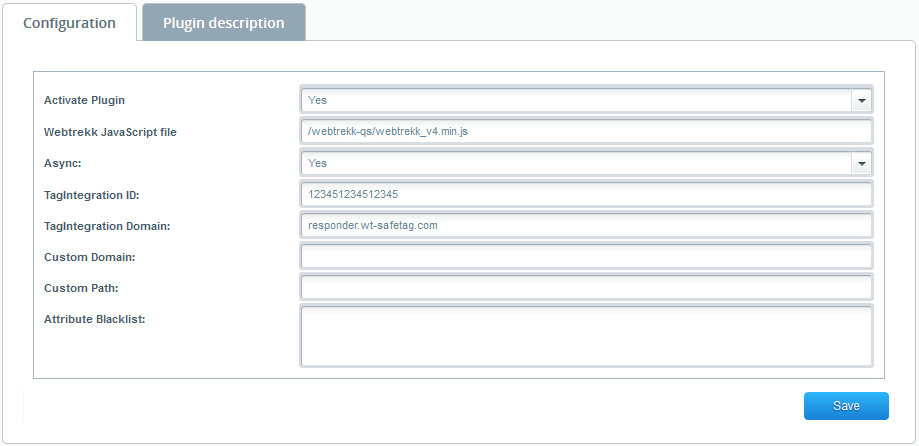
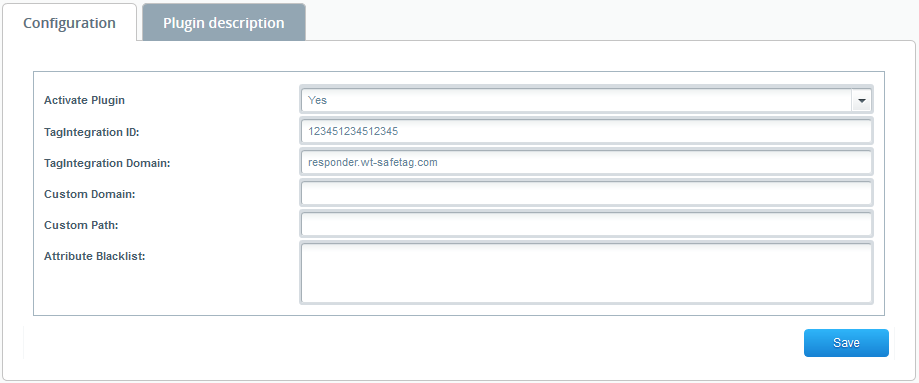
Update to use webtrekk tracking pixel v5

diff --git a/Frontend/BlmediaWebtrekk/Bootstrap.php b/Frontend/BlmediaWebtrekk/Bootstrap.php
@@ -98,7 +98,7 @@ class Shopware_Plugins_Frontend_BlmediaWebtrekk_Bootstrap extends Shopware_Compo
      */
     public function getVersion()
     {
-        return "1.0.2";
+        return "1.0.3";
     }
 
     /**
@@ -136,23 +136,6 @@ class Shopware_Plugins_Frontend_BlmediaWebtrekk_Bootstrap extends Shopware_Compo
         $form->setElement('boolean', 'activatePlugin',
             array(
                 'label' => 'Activate Plugin',
-                'value' => 1,
-                'scope' => \Shopware\Models\Config\Element::SCOPE_SHOP
-            )
-        );
-
-        $form->setElement('text', 'pathToWebtrekkJsFile',
-            array(
-                'label' => 'Webtrekk JavaScript file:',
-                'value' => '',
-                'description' => '',
-                'scope' => \Shopware\Models\Config\Element::SCOPE_SHOP
-            )
-        );
-
-        $form->setElement('boolean', 'wt_async',
-            array(
-                'label' => 'Async',
                 'value' => 1,
                 'scope' => \Shopware\Models\Config\Element::SCOPE_SHOP
             )
@@ -319,17 +302,11 @@ class Shopware_Plugins_Frontend_BlmediaWebtrekk_Bootstrap extends Shopware_Compo
         // Basic Konfiguration
         ///////////////////////////////////////////////////////////////
 
-        // Trackid + TrackDomain
-        $this->View()->assign('blPathToWebtrekkJsFile', $config->pathToWebtrekkJsFile);
-
-        // Async
-        $this->addWebtrekkConfigKeyValuePair('async', $this->_string2bool($config->wt_async));
-
         // Safetag ID
-        $this->addWebtrekkConfigKeyValuePair('safetagId', $config->wt_safetagId);
+        $this->addWebtrekkConfigKeyValuePair('tiId', $config->wt_safetagId);
 
         // Safetag Path
-        $this->addWebtrekkConfigKeyValuePair('safetagDomain', $config->wt_safetagDomain);
+        $this->addWebtrekkConfigKeyValuePair('tiDomain', $config->wt_safetagDomain);
 
         // Custom ID
         $this->addWebtrekkConfigKeyValuePair('customDomain', $config->wt_customDomain);
@@ -372,9 +349,7 @@ class Shopware_Plugins_Frontend_BlmediaWebtrekk_Bootstrap extends Shopware_Compo
         $this->setDatalayerKeyValuePair('pageType', $this->getPageType());
 
         // Webtrekk Config Arrays
-        $webtrekk_global_config = array(
-            "safetag" => $this->getWebtrekkConfigArray()
-        );
+        $webtrekk_global_config = $this->getWebtrekkConfigArray();
         $this->View()->assign('blWebtrekkConfig', $webtrekk_global_config);
 
         // Webtrekk Datalayer

diff --git a/doc/Webtrekk_EN_Config_Shopware.md b/doc/Webtrekk_EN_Config_Shopware.md
@@ -3,7 +3,7 @@ Integration and Configuration of the Webtrekk Shopware Plugin | Version $version
 # Introduction
 
 The Webtrekk Shopware plugin enables you to integrate the Webtrekk pixel into your Shopware online shop simply and 
-quickly. In the process, the Webtrekk pixel code (Version 4) will be added to each page of your shop. This, in turn, 
+quickly. In the process, the Webtrekk pixel code (Version 5) will be added to each page of your shop. This, in turn, 
 ensures all standard parameters are configured.
 
 The following analyses will then be possible:
@@ -15,7 +15,7 @@ The following analyses will then be possible:
 - Action analyses
 - Form analyses
 
-The plugin was developed for Shopware 5.0 - 5.2.1 in combination with the Webtrekk pixel version 4. (i.e. you will need 
+The plugin was developed for Shopware 5.0 - 5.2.1 in combination with the Webtrekk pixel version 5. (i.e. you will need 
 the corresponding pixel JS file and Webtrekk TagIntegration account in addition to the Shopware plugin).
 
 This document provides an overview of the values set on the individual pages and explains the integration of the 
@@ -48,8 +48,6 @@ A form for the basic configuration should appear, after installing the plugin.
 ![Alt Configuration](img/configuration.png)
 
 - **Activate Plugin:** Here you can activate and deactivate the webtrekk plugin.
-- **Webtrekk JavaScript file:** The URL to the JavaScript which contains the tracking code (/webtrekk_v4.min.js).
-- **Async:** Defines whether the TagIntegration container should be loaded asynchronously.
 - **TagIntegration ID:** Enter your TagIntegration customer ID here, if the TagIntegration file should be loaded from a Webtrekk server.
 - **TagIntegration Domain:** Enter the TagIntegration domain here, if the TagIntegration file should be loaded from a Webtrekk server.
 - **Custom Domain:** Enter your domain here, if the TagIntegration file should be loaded from your server.

diff --git a/doc/Webtrekk_DE_Config_Shopware.md b/doc/Webtrekk_DE_Config_Shopware.md
@@ -3,7 +3,7 @@ Integration und Konfiguration des Webtrekk Shopware Plugin | Version $version$
 # Einführung
 
 Das Webtrekk Shopware Plugin ermöglicht Ihnen eine einfache Integration des Webtrekk Pixels in Ihre mit Shopware 
-verwaltete Webseite. Jede Seite des Webangebots wird mit dem Webtrekk-Pixelcode (in der Version 4) versehen. Auf diese 
+verwaltete Webseite. Jede Seite des Webangebots wird mit dem Webtrekk-Pixelcode (in der Version 5) versehen. Auf diese 
 Weise werden alle Standardparameter erfasst.
 
 Folgende Auswertungen sind damit möglich:
@@ -15,7 +15,7 @@ Folgende Auswertungen sind damit möglich:
 - Aktionsanalysen
 - Formularanalysen
 
-Entwickelt wurde das Plugin für Shopware 5.0 - 5.2.1 in Kombination mit dem Webtrekk Pixel in der Version 4. (D.h. 
+Entwickelt wurde das Plugin für Shopware 5.0 - 5.2.1 in Kombination mit dem Webtrekk Pixel in der Version 5. (D.h. 
 zusätzlich zu dem Shopware Plugin benötigen Sie eine entsprechende JS-Datei des Pixels und einen Webtrekk 
 TagIntegration Account)
 
@@ -51,8 +51,6 @@ könne.
 ![Alt Configuration](img/configuration.png)
 
 - **Activate Plugin:** Hier können Sie das Webtrekk Plugin zusätzlich aktivieren bzw. deaktivieren
-- **Webtrekk JavaScript file:** Hier können Sie den Pfad zur Webtrekk JavaScript Datei eintragen (/webtrekk_v4.min.js)
-- **Async:** Legt fest, ob der TagIntegration-Container asynchron geladen werden soll
 - **TagIntegration ID:** Tragen Sie hier Ihre TagIntegration Kunden-ID ein, wenn die TagIntegration Datei vom Webtrekk Server geladen werden soll
 - **TagIntegration Domain:** Tragen Sie hier die TagIntegration Domain ein, wenn die TagIntegration Datei vom Webtrekk Server geladen werden soll
 - **Custom Domain:** Tragen Sie hier Ihre Domain ein, wenn die TagIntegration Datei von Ihrem Server geladen werden soll
